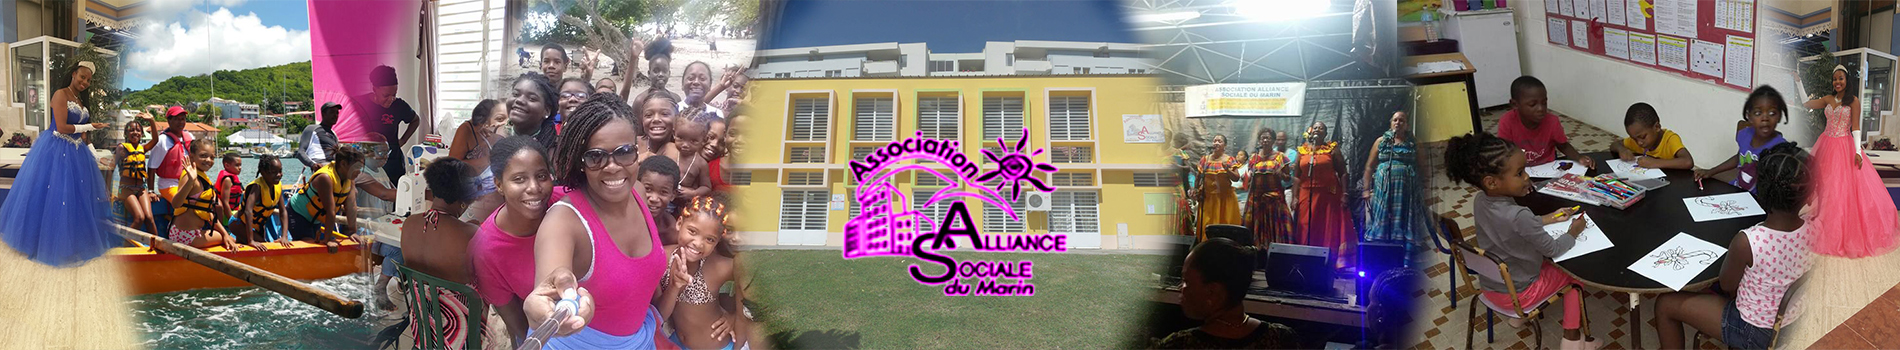
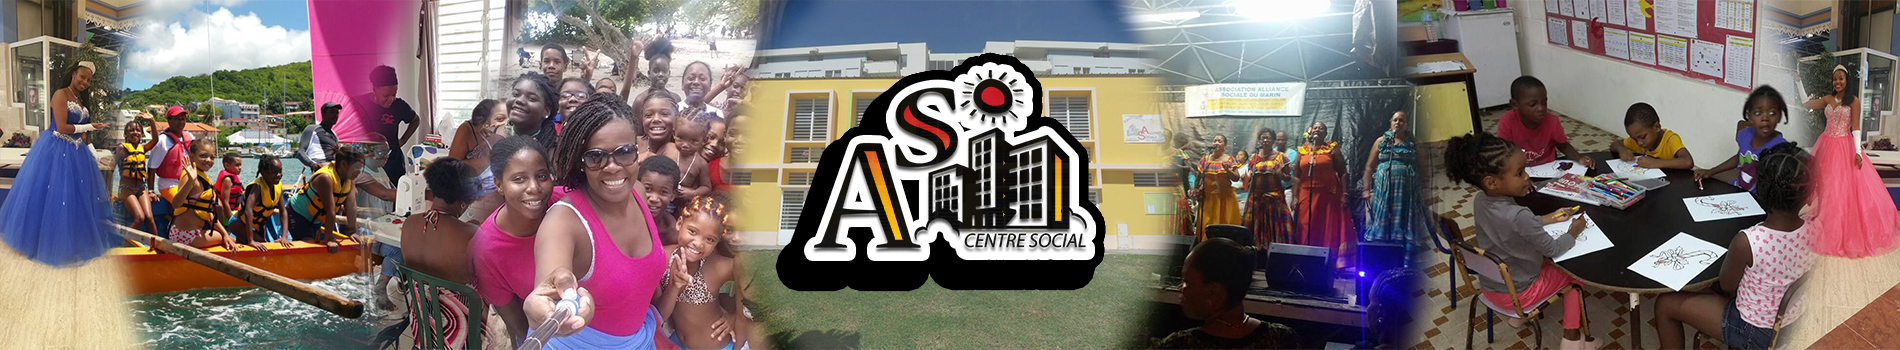
Modif layout front
header
projecteur
nav (responsive à revoir)

Changed region(s): [[0.4037, 0.1429, 0.59, 0.8571]]

diff --git a/public/assets/css/front.css b/public/assets/css/front.css
@@ -2,6 +2,7 @@ body{
     font-family: 'Source code pro', Calibri, serif;
     margin:0px;
     padding:0px;
+    /*background-color: rgba(239, 116, 255, 0.54);
     /*background-image: url(../img/maxresdefault.jpg);*/
     background-size: cover;
 }
@@ -48,7 +49,7 @@ nav{
     margin: 7px 20px 0 20px;
 }
 nav >ul{
-   margin-left:400px;
+   margin-right:5em;
     padding:0px;
 }
 nav >ul::after{
@@ -57,14 +58,17 @@ nav >ul::after{
     clear:both;
 }
 nav >ul >li{
+    
     float:left;
     position:relative; 
 }
 nav a{
+    text-align: center;
     display:inline-block;
     text-decoration: none;
 }
 nav li{
+    margin-right:2em;
     list-style-type: none;
 }
 .submenu{
@@ -193,3 +197,9 @@ nav li:hover .submenu{
 /*-----------------------
     Fin    Pagination
 -----------------------*/
+.content{
+    margin-top:30em;
+}
+nav li {
+    margin-right:120px;
+}

diff --git a/app/Views/layout_front.php b/app/Views/layout_front.php
@@ -36,9 +36,15 @@
 
 </head>
 <body>
+ 
+     <!-- Header Carousel -->
+    
 
  <!-- Navigation -->
     <nav class="navbar navbar-inverse navbar-fixed-top" role="navigation">
+       <header>
+    <img class="img-responsive" src="<?= $this->assetUrl('img/montage.jpg') ?>">
+    </header>
         <div class="container-fluid">
             <!-- Brand and toggle get grouped for better mobile display -->
             <div class="navbar-header">
@@ -48,7 +54,7 @@
                     <span class="icon-bar"></span>
                     <span class="icon-bar"></span>
                 </button>
-                <a class="navbar-brand" href="<?php echo $this->url('default_home') ?>">Alliance Sociale</a>
+                <a class="navbar-brand" href="<?php echo $this->url('default_home') ?>"></a>
             </div>
             <!-- Collect the nav links, forms, and other content for toggling -->
             <div class="collapse navbar-collapse" id="bs-example-navbar-collapse-1">
@@ -138,12 +144,9 @@
         <!-- /.container -->
     </nav>
 
-    <!-- Header Carousel -->
-    <header>
-    <img class="img-responsive" src="<?= $this->assetUrl('img/montage.jpg') ?>">
-    </header>
+
     
-<div class="container-fluid">
+<div class="container-fluid content">
 
 
     <!-- Marketing Icons Section -->
